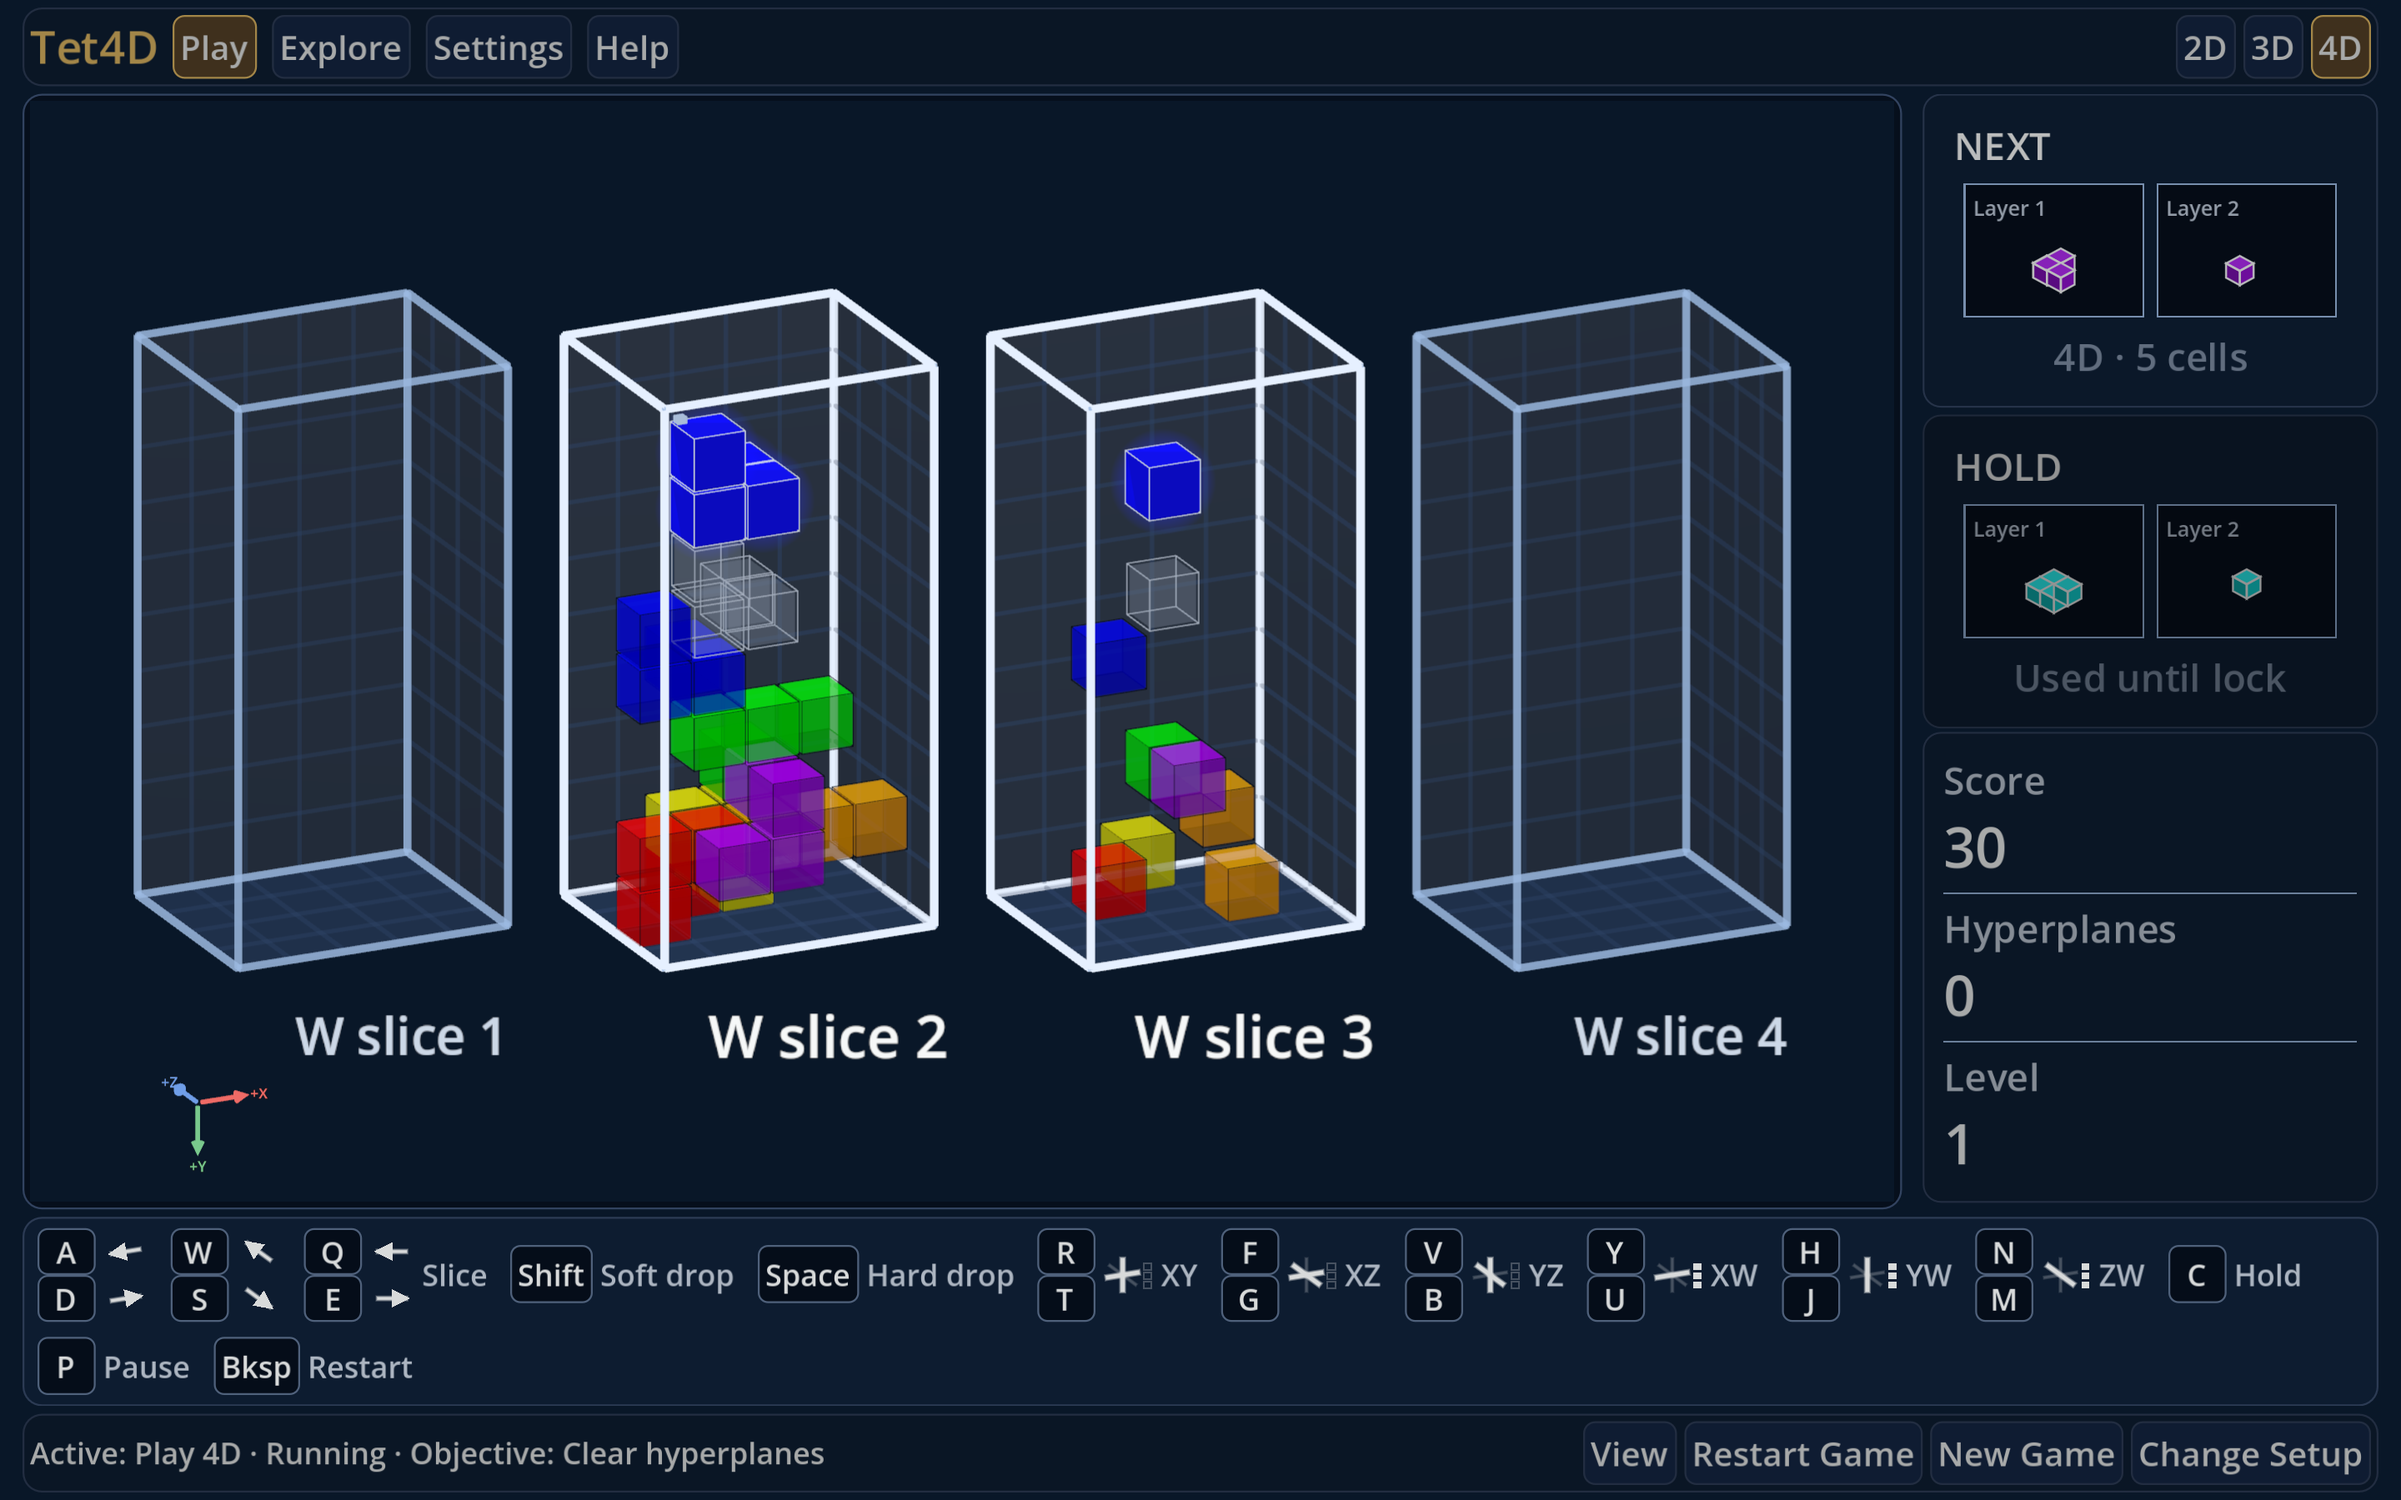
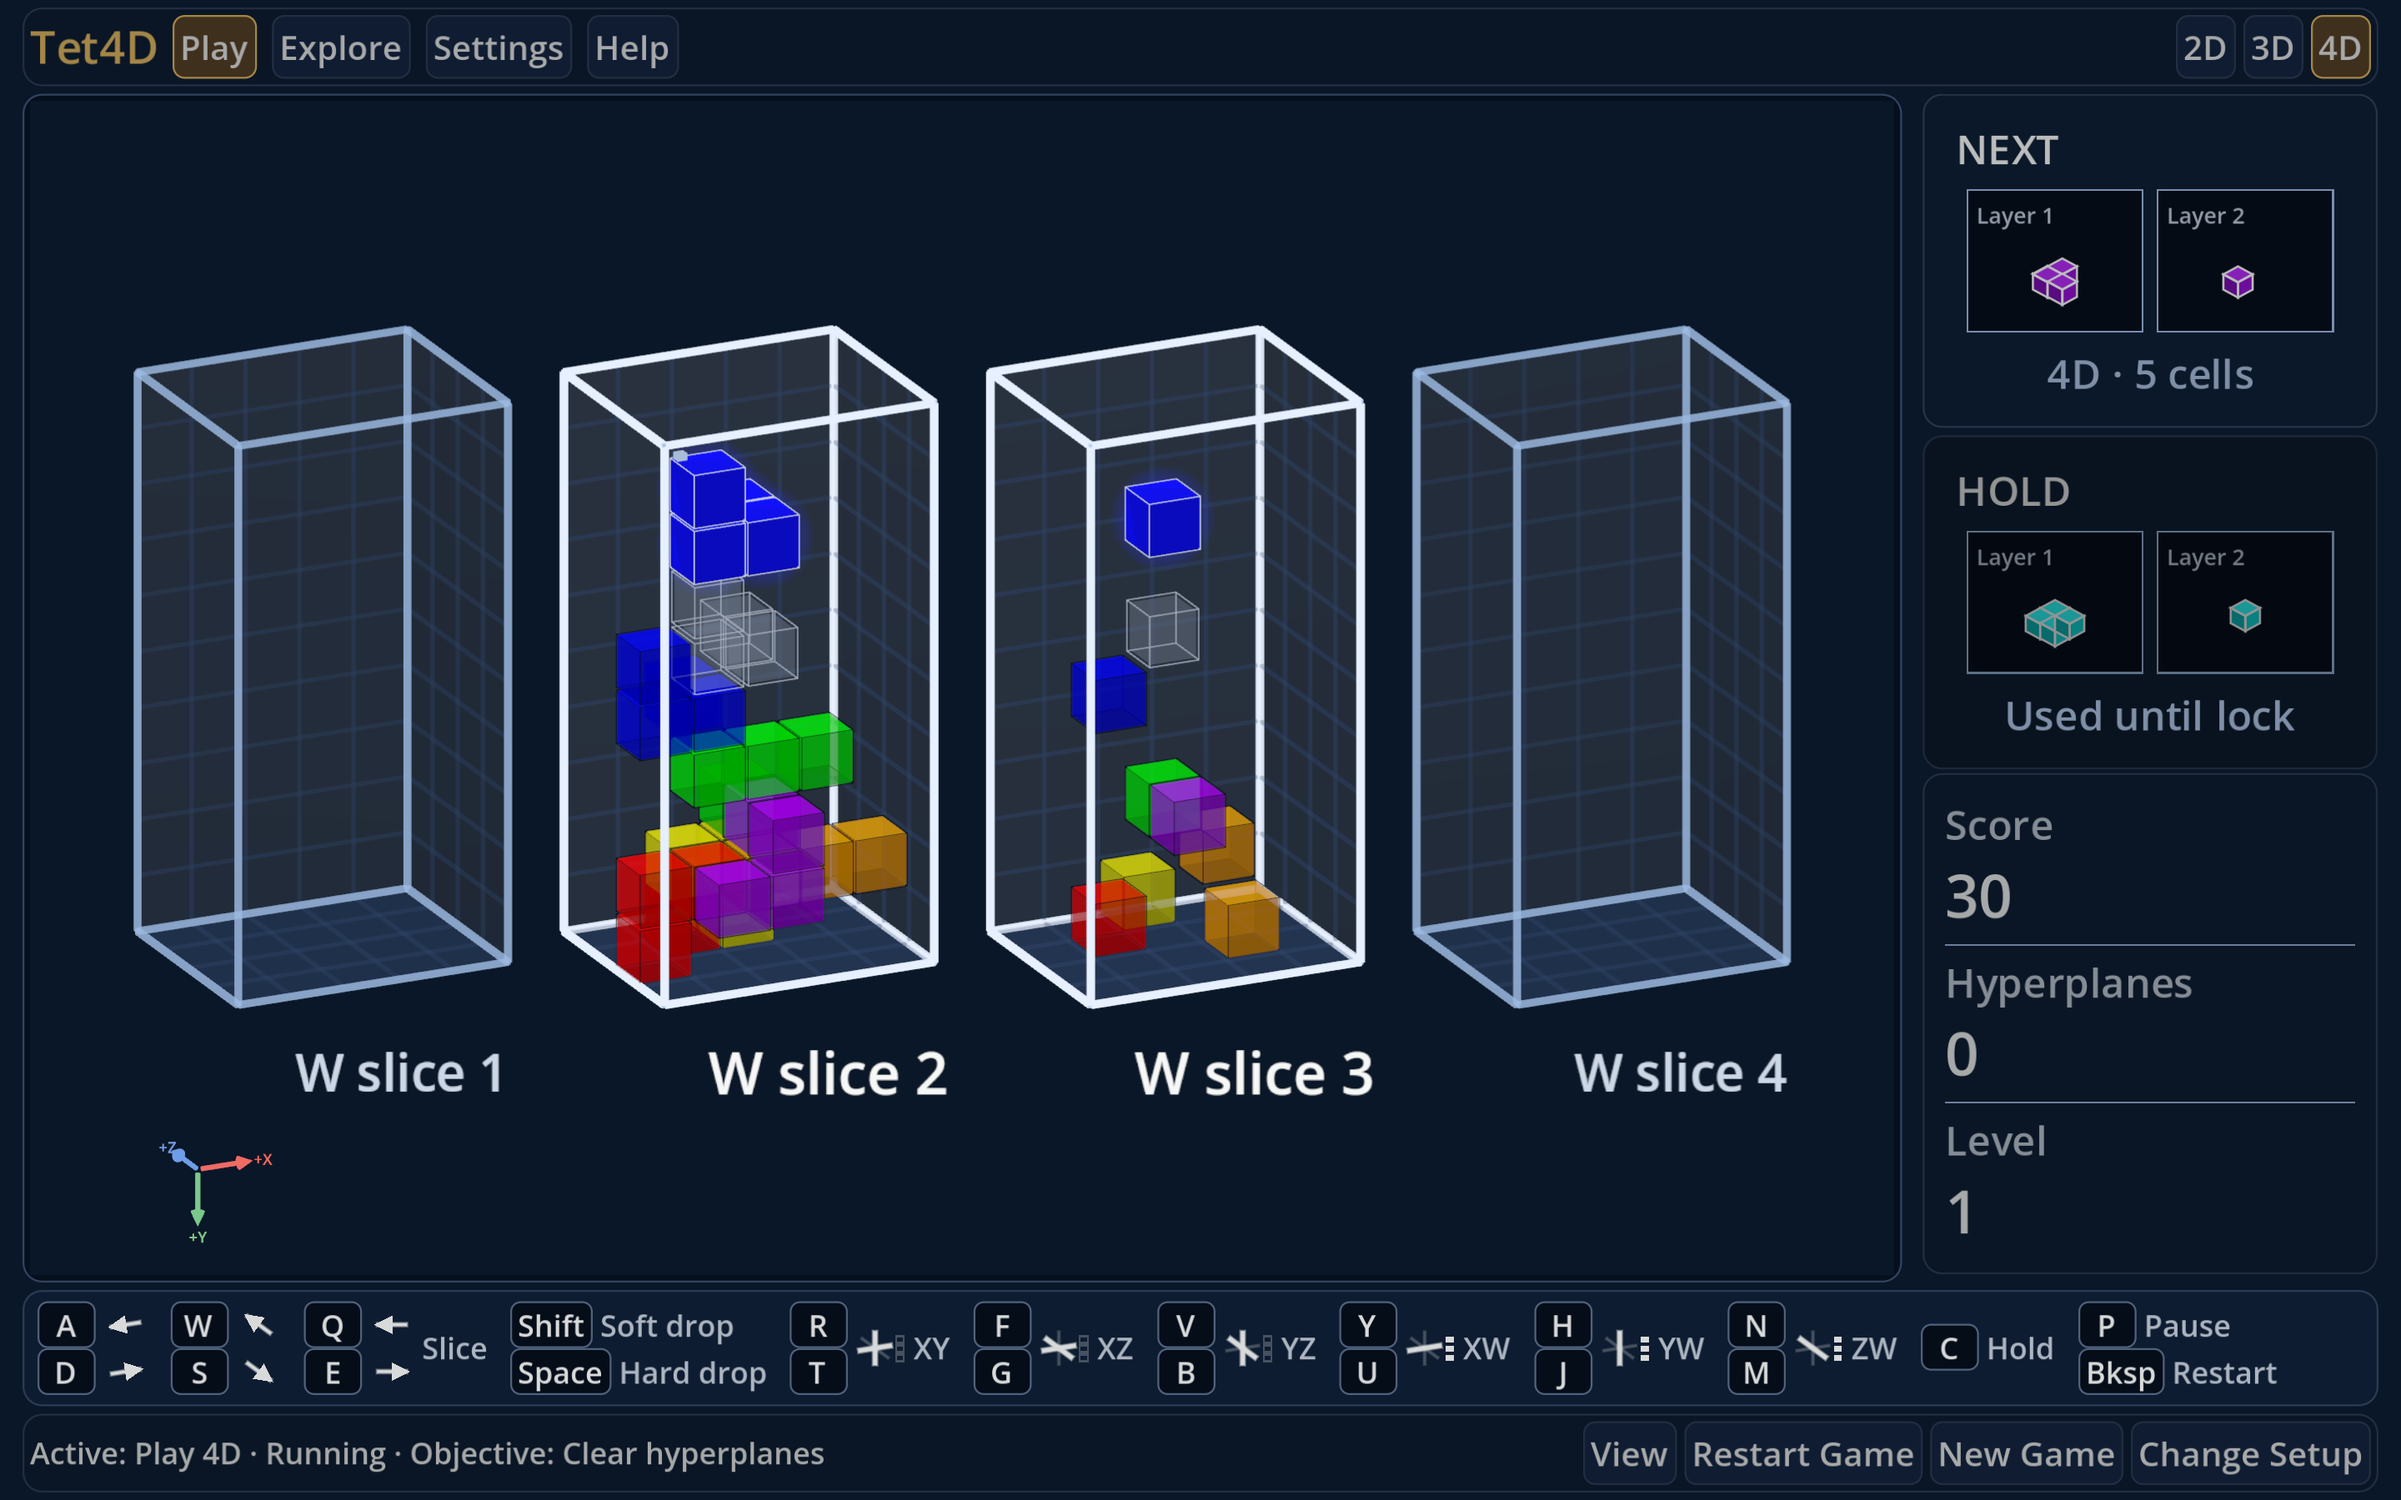
Fix P3 cockpit caption contrast, shell jump, 3D clearance and 4D footer wrap
- Preview captions are lifted back by the Play brightness tiers, so muted
  text is not dimmed twice (2.47:1 and 3.4:1 become 5.67:1 and 5.42:1).
- Every Concept A Play dimension shares one shell margin, so switching
  dimension no longer moves the navigation bar.
- The 3D fit margin is 1.01, giving the well about three points of
  clearance from the frame's lower edge while keeping the Stage 58B area.
- Single-key footer entries pair into two-high columns in 3D and 4D, so
  the 4D footer fits one row at 1440x900 and 1280x720.
- The plane glyph's W-marker sizes and reach factor move to
  config/graphical_language.json.
- Lock checks cover the navigation position, caption brightness, well
  clearance (in logical points) and the one-row footer in all modes.
- P3 captures and comparison sheets are refreshed.

diff --git a/docs/CONFIGURATION_REFERENCE.md b/docs/CONFIGURATION_REFERENCE.md
@@ -2759,7 +2759,7 @@ Parameters:
 Top-level keys: `cockpit`, `description`, `luminous`, `schema_version`
 Parameters:
 - `cockpit.board.fit_margin_2d`: `1.02` (`float`)
-- `cockpit.board.fit_margin_3d`: `1.0` (`float`)
+- `cockpit.board.fit_margin_3d`: `1.01` (`float`)
 - `cockpit.board.frame_padding`: `4.0` (`float`)
 - `cockpit.board.slice_gutter_scale`: `0.5` (`float`)
 - `cockpit.board.slice_label_side_pad`: `0.8` (`float`)
@@ -2773,7 +2773,15 @@ Parameters:
 - `cockpit.inline_arrow.size`: `24.0` (`float`)
 - `cockpit.inline_arrow.span_factor`: `0.32` (`float`)
 - `cockpit.inline_plane_glyph_size`: `21.0` (`float`)
+- `cockpit.plane_glyph_reach`: `0.42` (`float`)
 - `cockpit.plane_glyph_size`: `30.0` (`float`)
+- `cockpit.plane_w_marker.box_height`: `5.0` (`float`)
+- `cockpit.plane_w_marker.box_width`: `6.0` (`float`)
+- `cockpit.plane_w_marker.boxes`: `3` (`int`)
+- `cockpit.plane_w_marker.gap`: `1.0` (`float`)
+- `cockpit.plane_w_marker.pitch`: `7.0` (`float`)
+- `cockpit.plane_w_marker.reserve`: `8.0` (`float`)
+- `cockpit.plane_w_marker.top`: `6.0` (`float`)
 - `cockpit.stat_divider_thickness`: `1.0` (`float`)
 - `description`: `"Tuning values for the owner graphical language (docs/design/graphica...` (`string`)
 - `luminous.board.active.cell_emission`: `0.85` (`float`)
